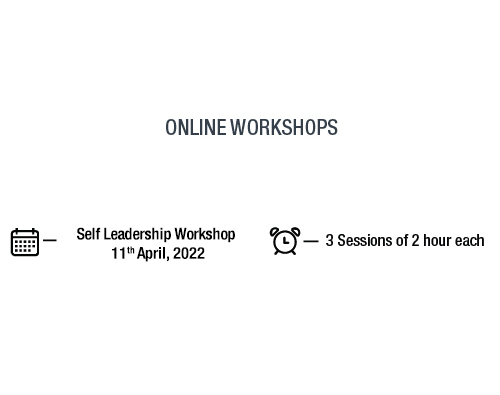
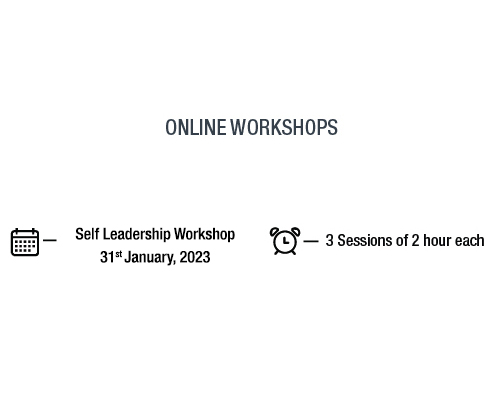
asd

Changed region(s): [[0.15, 0.5772, 0.48, 0.6684]]

diff --git a/pages/lp/self-leadership-workshop-lp.js b/pages/lp/self-leadership-workshop-lp.js
@@ -101,7 +101,7 @@ export default function HybridWorkplaces() {
                            <div className="form-group">
                               <label>Program Name*</label>                              
                               <select className="form-control" name="interest_in" required>
-                                 <option value="Self leadership Workshop: 11th April, 2022">Self leadership Workshop: 11th April, 2022</option>
+                                 <option value="Self leadership Workshop: January 31st, 2023">Self leadership Workshop: January 31st, 2023</option>
                               </select>
                               <div className="help-block with-errors"></div>
                            </div>
